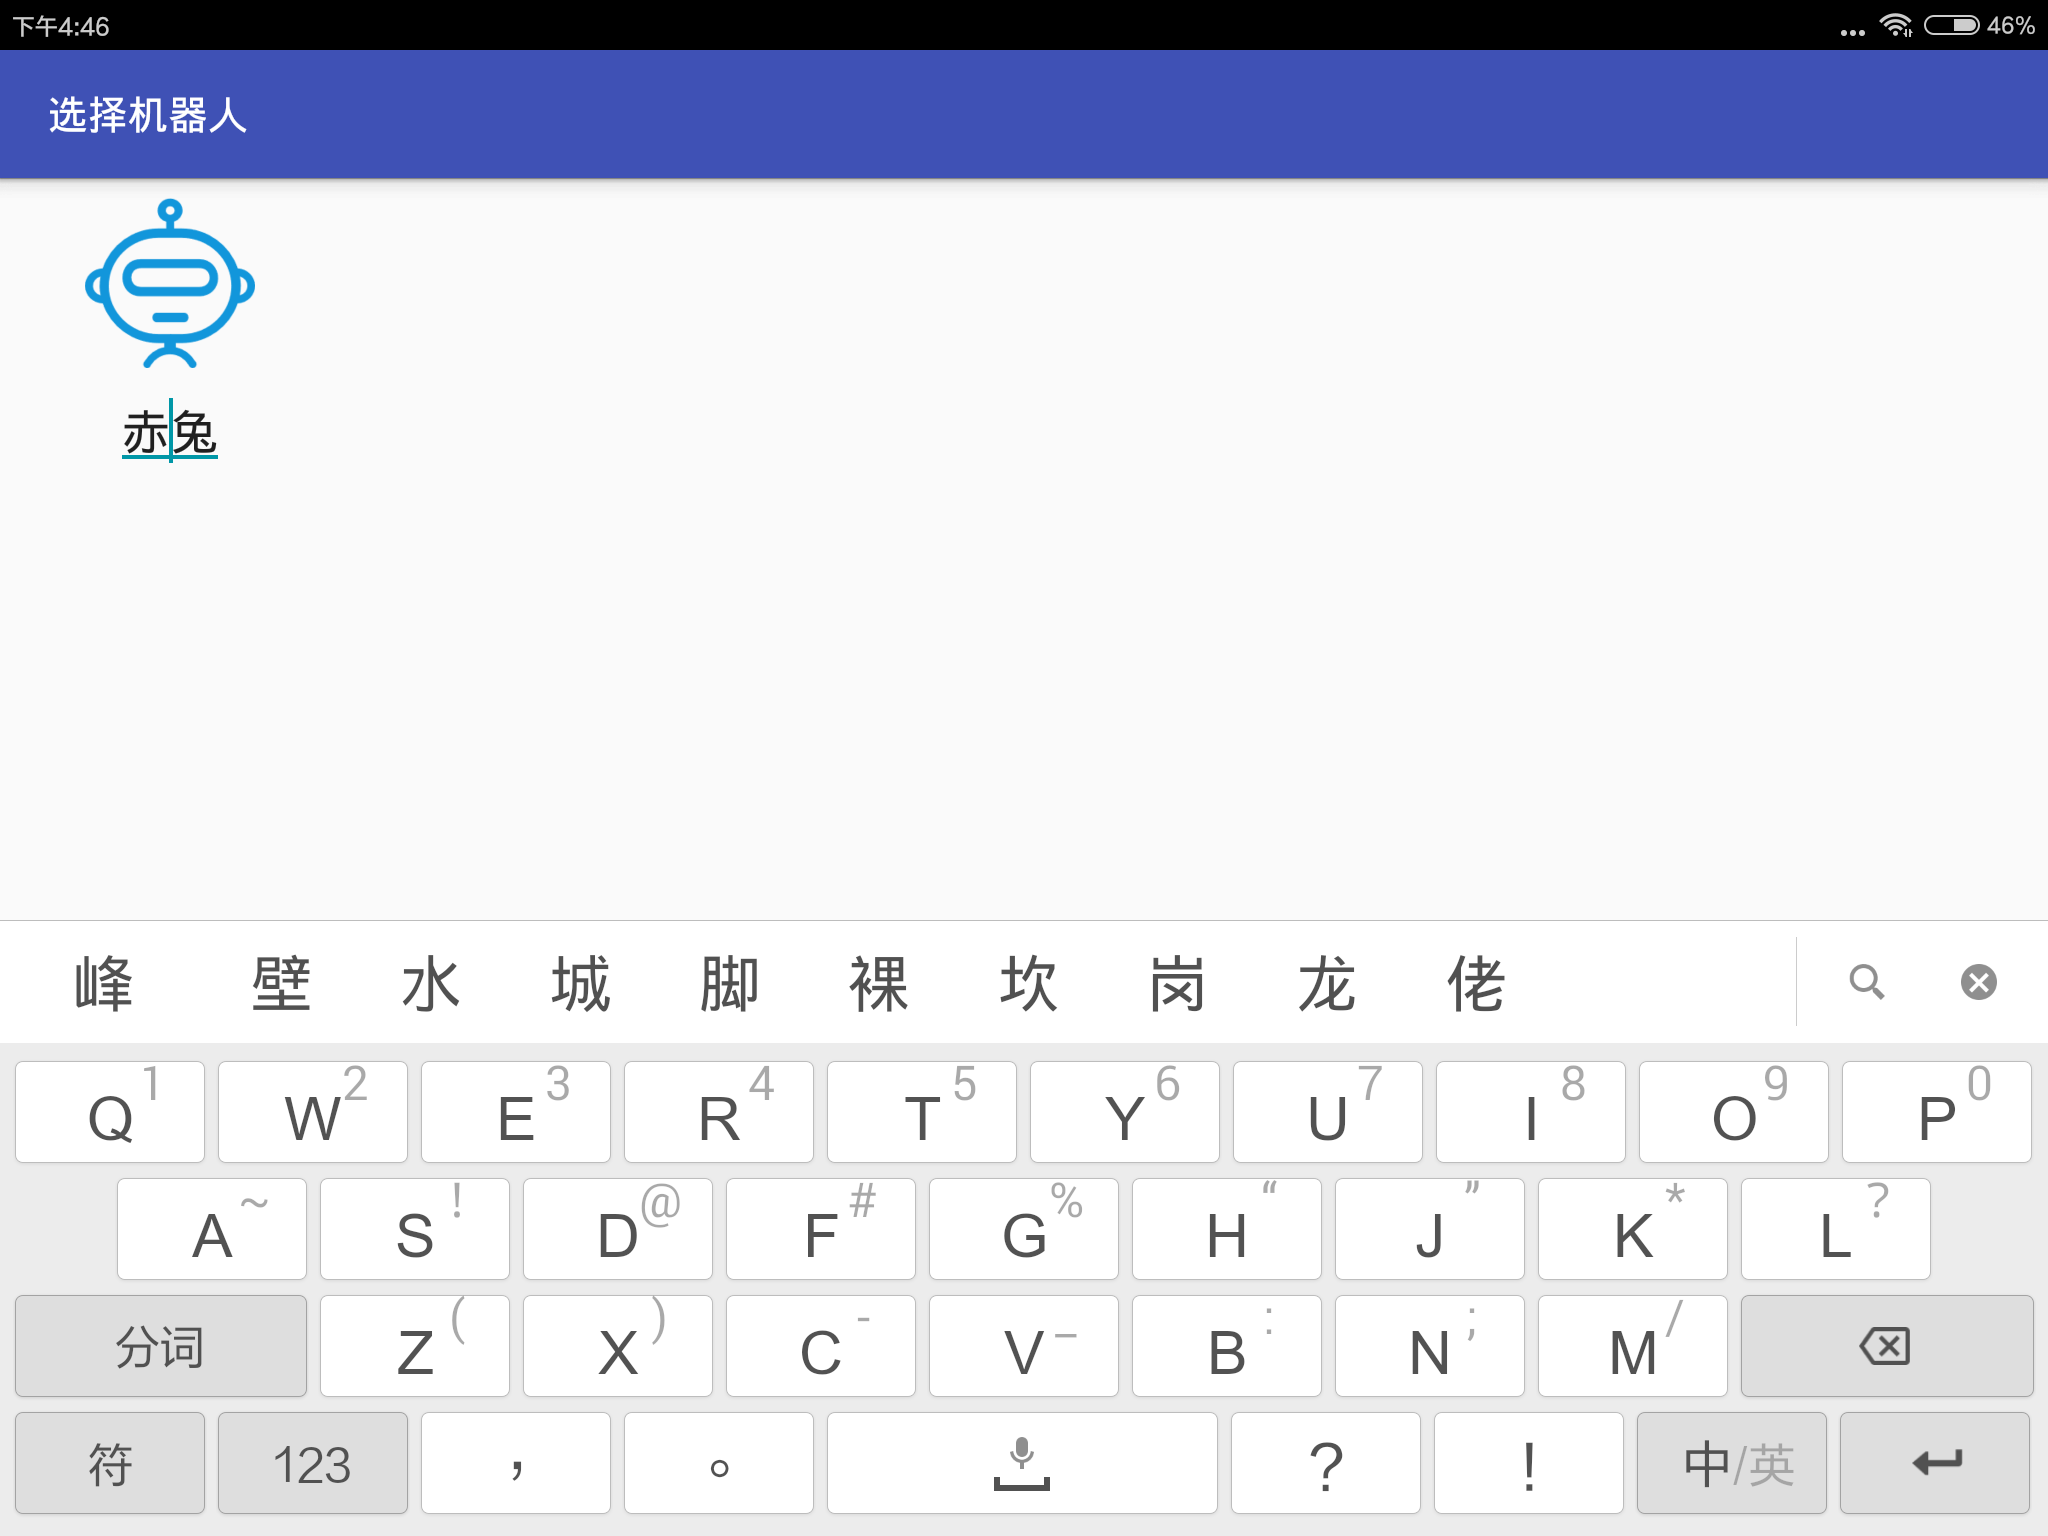
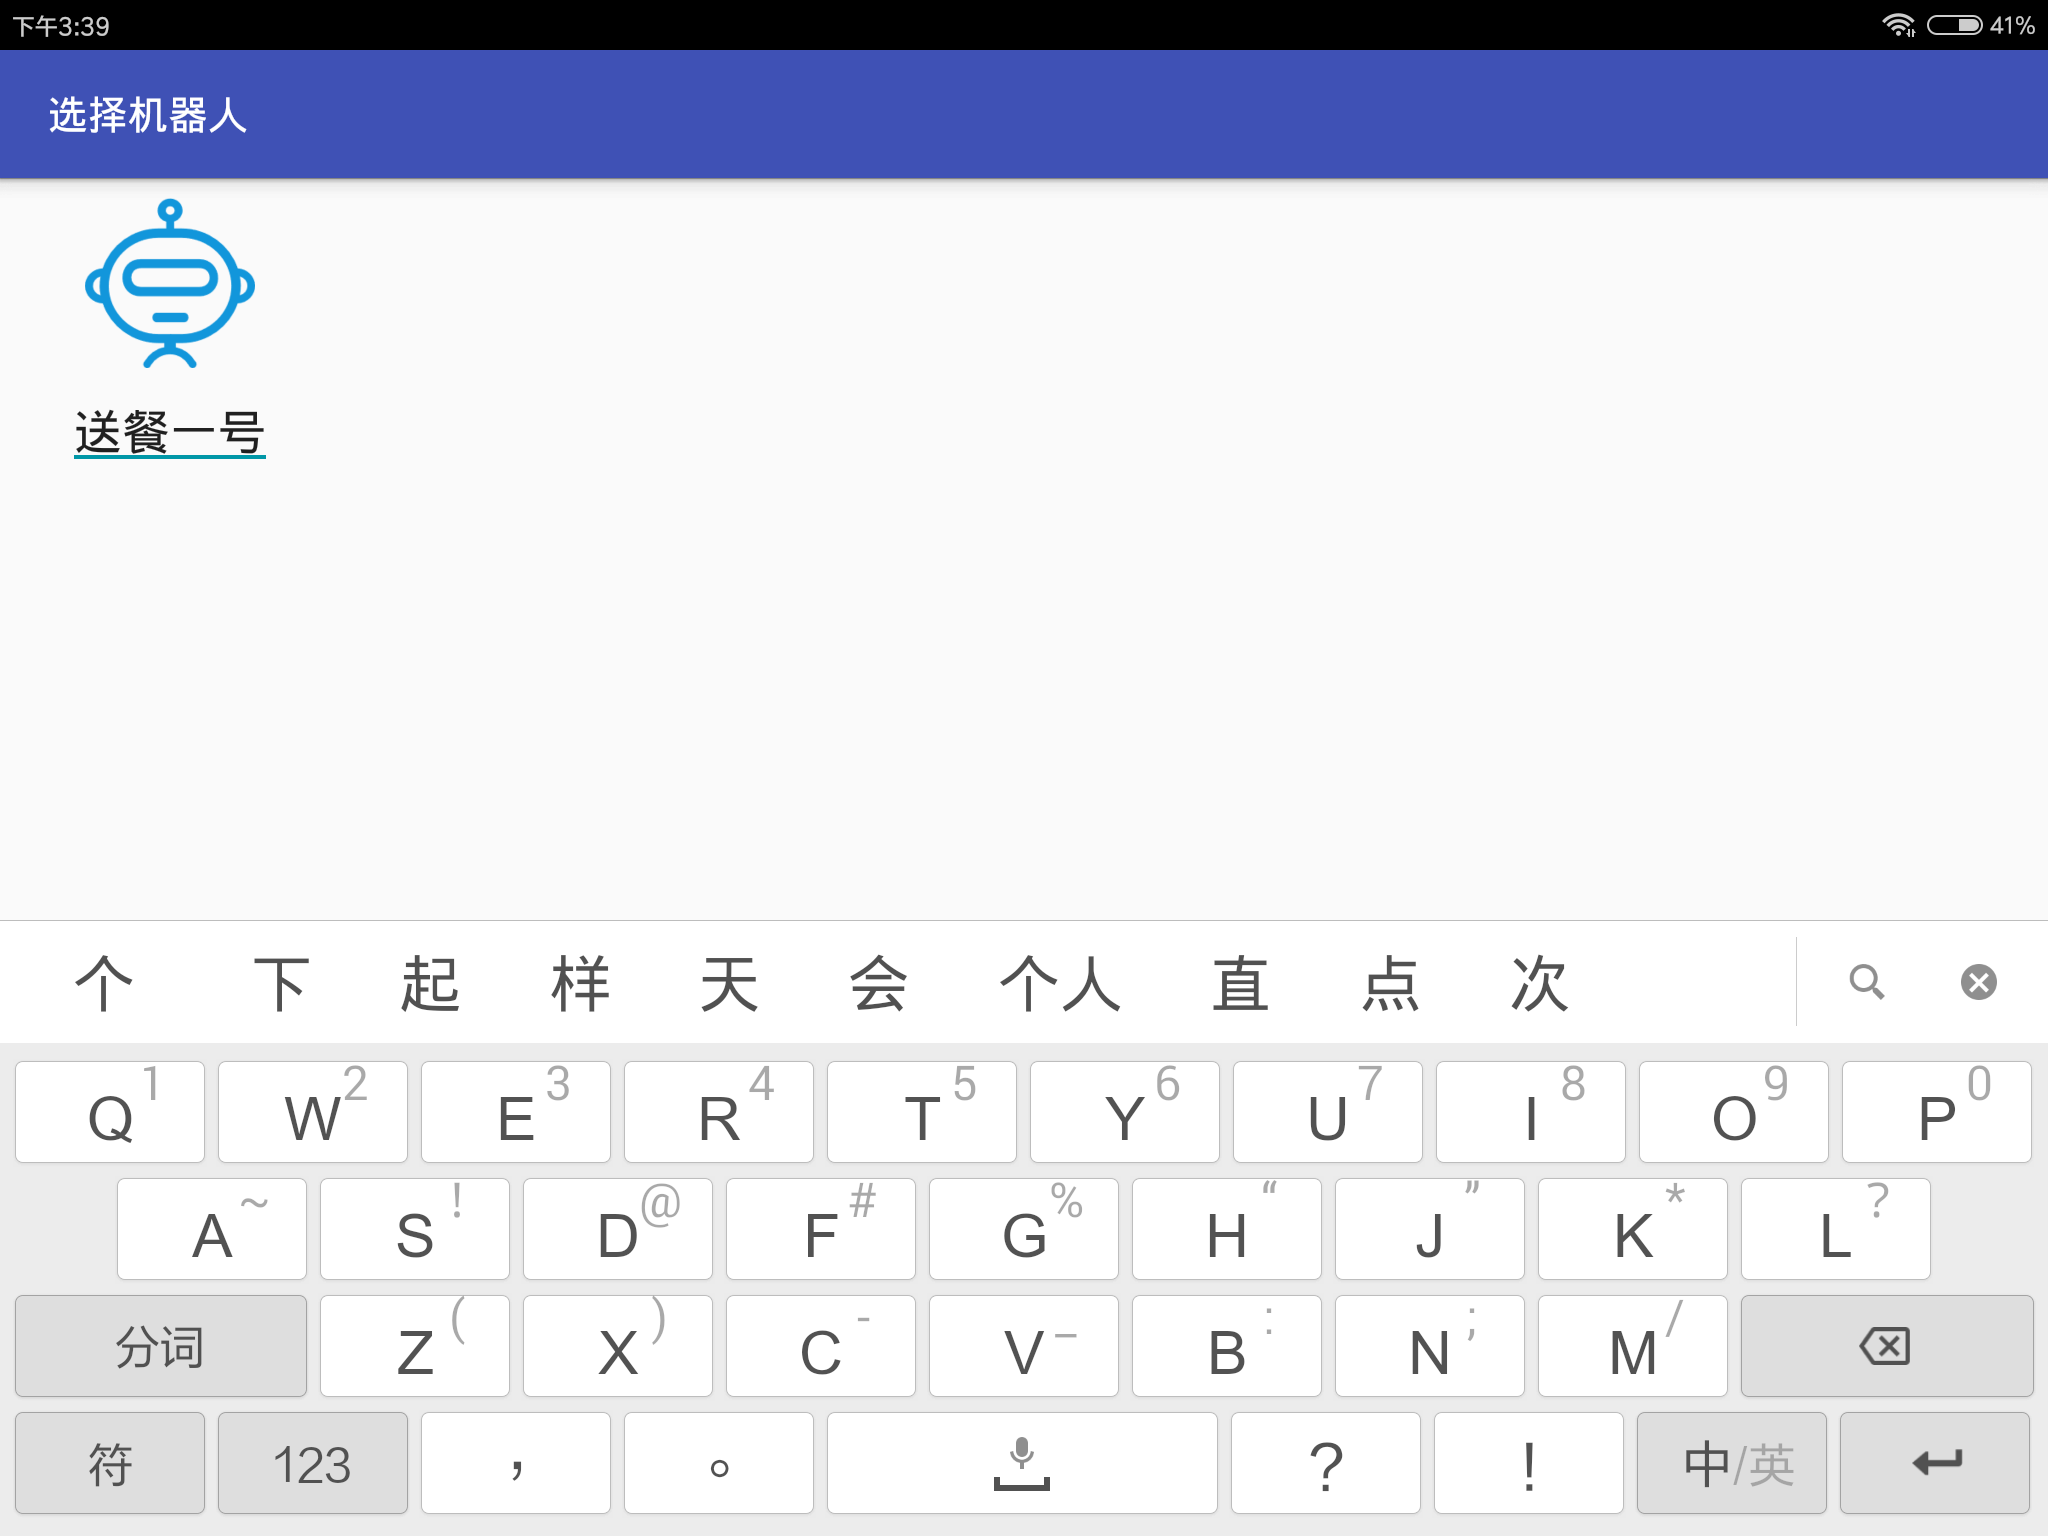
add rename related

diff --git a/basic.md b/basic.md
@@ -29,3 +29,43 @@
 ## 休眠功能
 
 如果机器人长期处于选择目标界面且用户没有下发任务，机器人等待10分钟后会自动进入休眠状态。在休眠状态下机器人会为了省电关闭一些程序。此时点击平板机器人就会自动从休眠状态恢复。
+
+## 重命名机器人
+
+为了更加方便的使用机器人，用户可以根据自己的需要给机器人重新命名。重命名方法比较简单，直接长按机器人图标，机器人图标就会进入可修改状态。
+
+![重命名机器人](imgs/rename-robot.png)
+
+修改完成后随意点击其他位置就可以退出修改状态了。注意机器人的名称不能太长，太长可能会无法显示完全。
+
+## 重命名目标点
+
+在建立完成地图之后，用户可以修改目标点的名称。比如将一号桌改名为大厅，二号桌改为走廊。修改方式和重命名机器人一样。长按目标点按钮进行修改。
+
+![重命名目标点](imgs/rename-point.png)
+
+修改完成后随意点击其他位置就可以退出修改状态了。
+
+## 定制语音提示
+
+用户可以对机器人的语音提示进行定制
+
+在已经安装了app上的手机或平板上，app会自动创建一个叫chitu的文件夹。在chitu文件夹内存在一个叫audio的文件夹。可以在audio文件夹内部放入对应的声音文件替换掉默认的语音提示。
+放入的语音文件格式必须为wav，文件名对应不同的语音内容。语音文件名称和语音对应关系如下
+
+|文件名|系统默认语音内容|
+|--|--|
+|厨房放餐提示|请在放好后点击目标|
+|低电量提示|电池电量过低请及时充电|
+|到达提示|您点的餐到了，请在去餐后点击返回|
+|返回提示|我回去了，您慢用|
+|闭环优化开始|开始闭环优化，请先等待一会|
+|闭环优化完成|闭环优化完成，你可以继续操作了|
+|暂停任务|已经暂停任务|
+|继续任务|继续任务|
+|取消任务|取消任务|
+|返回厨房提示|我回来了|
+|导航系统未初始化提示|视觉尚未初始化，请遥控机器人到之前建立过地图的位置|
+|导航服务未开启提示|导航服务尚未开启，请等待一会|
+|开始返回厨房提示|正在返回厨房|
+|移动向餐桌提示|正在前往x号桌|
